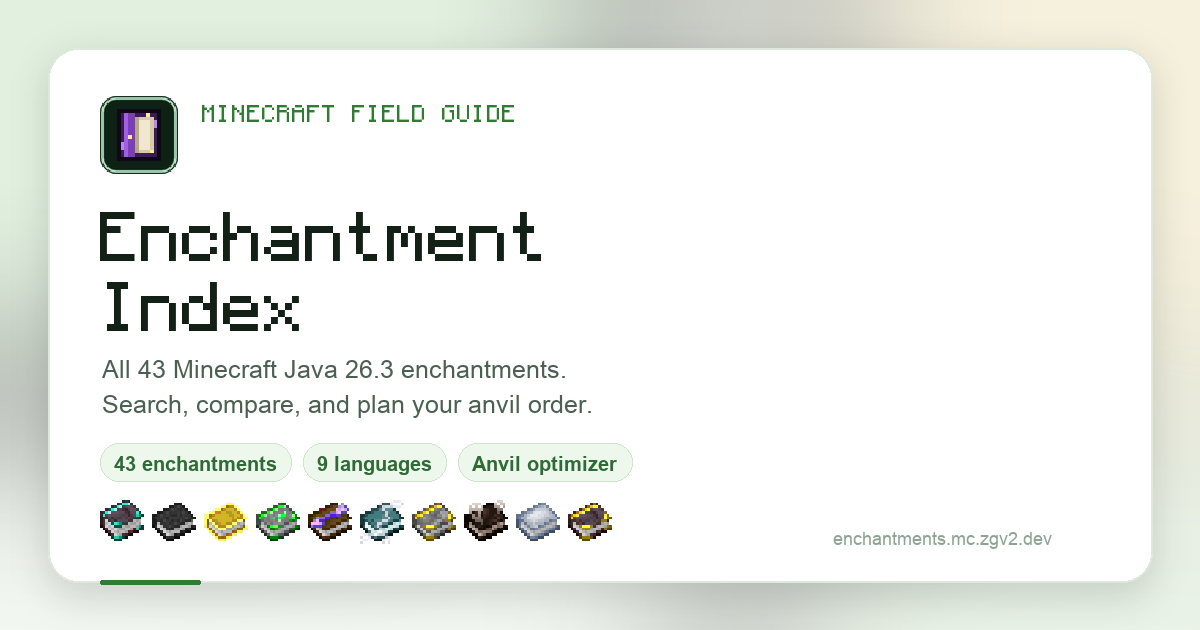
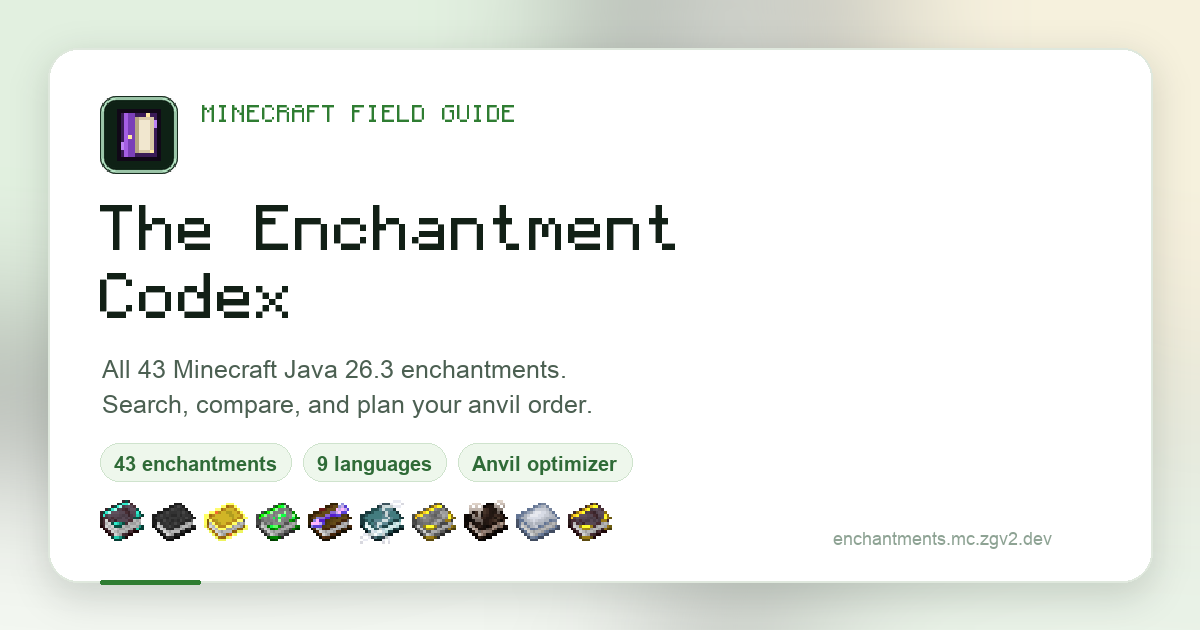
Rebrand the index as The Enchantment Codex

Changed region(s): [[0.0617, 0.3016, 0.555, 0.5429]]

diff --git a/index.html b/index.html
@@ -11,28 +11,28 @@
     }
   } catch (_) {}
 </script>
-<title>Minecraft Enchantment Index — 43 Java 26.3 Enchantments</title>
+<title>The Enchantment Codex — Minecraft Java 26.3 Enchantments</title>
 <meta name="description" content="Search all 43 Minecraft Java 26.3 enchantments. Compare max levels, compatible items, conflicts, sources, official translations, and plan anvil order.">
 <meta name="author" content="ZGV2">
-<meta name="application-name" content="Minecraft Enchantment Index">
+<meta name="application-name" content="The Enchantment Codex">
 <meta name="color-scheme" content="light dark">
 <meta name="robots" content="index,follow,max-image-preview:large">
 <link rel="canonical" href="https://enchantments.mc.zgv2.dev/">
 <link rel="preload" href="assets/Monocraft.ttf" as="font" type="font/ttf" crossorigin>
 <link rel="manifest" href="site.webmanifest">
 <link rel="sitemap" type="application/xml" title="Sitemap" href="sitemap.xml">
-<meta name="apple-mobile-web-app-title" content="Enchantment Index">
+<meta name="apple-mobile-web-app-title" content="Enchantment Codex">
 <meta property="og:type" content="website">
-<meta property="og:site_name" content="Enchantment Index">
+<meta property="og:site_name" content="The Enchantment Codex">
 <meta property="og:url" content="https://enchantments.mc.zgv2.dev/">
-<meta property="og:title" content="Minecraft Enchantment Index">
+<meta property="og:title" content="The Enchantment Codex">
 <meta property="og:description" content="Search all 43 Java 26.3 enchantments, compare levels and conflicts, and plan the cheapest anvil order.">
-<meta property="og:image" content="https://enchantments.mc.zgv2.dev/assets/og-image.png?v=2">
-<meta property="og:image:secure_url" content="https://enchantments.mc.zgv2.dev/assets/og-image.png?v=2">
+<meta property="og:image" content="https://enchantments.mc.zgv2.dev/assets/og-image.png?v=3">
+<meta property="og:image:secure_url" content="https://enchantments.mc.zgv2.dev/assets/og-image.png?v=3">
 <meta property="og:image:type" content="image/png">
 <meta property="og:image:width" content="1200">
 <meta property="og:image:height" content="630">
-<meta property="og:image:alt" content="Enchantment Index — 43 Minecraft Java 26.3 enchantments">
+<meta property="og:image:alt" content="The Enchantment Codex — 43 Minecraft Java 26.3 enchantments">
 <meta property="og:locale" content="en_US">
 <meta property="og:locale:alternate" content="uk_UA">
 <meta property="og:locale:alternate" content="zh_CN">
@@ -43,10 +43,10 @@
 <meta property="og:locale:alternate" content="es_ES">
 <meta property="og:locale:alternate" content="ja_JP">
 <meta name="twitter:card" content="summary_large_image">
-<meta name="twitter:title" content="Minecraft Enchantment Index">
+<meta name="twitter:title" content="The Enchantment Codex">
 <meta name="twitter:description" content="Search all 43 Java 26.3 enchantments, compare levels and conflicts, and plan the cheapest anvil order.">
-<meta name="twitter:image" content="https://enchantments.mc.zgv2.dev/assets/og-image.png?v=2">
-<meta name="twitter:image:alt" content="Enchantment Index — 43 Minecraft Java 26.3 enchantments">
+<meta name="twitter:image" content="https://enchantments.mc.zgv2.dev/assets/og-image.png?v=3">
+<meta name="twitter:image:alt" content="The Enchantment Codex — 43 Minecraft Java 26.3 enchantments">
 <link rel="icon" type="image/svg+xml" href="assets/favicon.svg">
 <link rel="icon" type="image/png" sizes="32x32" href="assets/favicon-32.png">
 <link rel="icon" type="image/png" sizes="64x64" href="assets/favicon.png">
@@ -3877,7 +3877,7 @@
   }
 </style>
 <link rel="stylesheet" href="assets/order.css">
-<script type="application/ld+json">{"@context":"https://schema.org","@graph":[{"@type":"WebSite","@id":"https://enchantments.mc.zgv2.dev/#website","url":"https://enchantments.mc.zgv2.dev/","name":"Minecraft Enchantment Index","description":"Search all 43 Minecraft Java 26.3 enchantments. Compare max levels, compatible items, conflicts, sources, official translations, and plan anvil order.","inLanguage":"en","publisher":{"@type":"Organization","name":"ZGV2"},"mainEntity":{"@id":"https://enchantments.mc.zgv2.dev/#app"}},{"@type":"WebApplication","@id":"https://enchantments.mc.zgv2.dev/#app","name":"Minecraft Enchantment Index","url":"https://enchantments.mc.zgv2.dev/","description":"Search all 43 Minecraft Java 26.3 enchantments. Compare max levels, compatible items, conflicts, sources, official translations, and plan anvil order.","applicationCategory":"GameApplication","operatingSystem":"Any","browserRequirements":"Requires JavaScript","isAccessibleForFree":true,"inLanguage":["en","uk","zh-Hans","zh-Hant","de","fr","it","es","ja"],"featureList":["Search 43 Minecraft Java 26.3 enchantments","Filter by category or maximum level","Compare compatible items and conflicts","View official translations in nine languages","Plan the cheapest anvil order"],"offers":{"@type":"Offer","price":"0","priceCurrency":"USD"},"creator":{"@type":"Organization","name":"ZGV2"},"isPartOf":{"@id":"https://enchantments.mc.zgv2.dev/#website"}},{"@type":"ItemList","@id":"https://enchantments.mc.zgv2.dev/#enchantments","name":"Minecraft Java 26.3 enchantments","numberOfItems":43,"itemListOrder":"https://schema.org/ItemListOrderAscending","itemListElement":[{"@type":"ListItem","position":1,"name":"Aqua Affinity","description":"Break blocks at full speed underwater."},{"@type":"ListItem","position":2,"name":"Bane of Arthropods","description":"Extra damage against spiders and their kin."},{"@type":"ListItem","position":3,"name":"Blast Protection","description":"Soften explosions and their knockback."},{"@type":"ListItem","position":4,"name":"Breach","description":"Mace hits punch through armor."},{"@type":"ListItem","position":5,"name":"Channeling","description":"Call lightning down during a storm."},{"@type":"ListItem","position":6,"name":"Curse of Binding","description":"Armor that cannot be taken off."},{"@type":"ListItem","position":7,"name":"Curse of Vanishing","description":"Gone forever when you die."},{"@type":"ListItem","position":8,"name":"Density","description":"Heavier, harder-hitting mace smashes."},{"@type":"ListItem","position":9,"name":"Depth Strider","description":"Move faster through water."},{"@type":"ListItem","position":10,"name":"Efficiency","description":"Mine faster with every level."},{"@type":"ListItem","position":11,"name":"Feather Falling","description":"Soften the landing."},{"@type":"ListItem","position":12,"name":"Fire Aspect","description":"Set your targets ablaze."},{"@type":"ListItem","position":13,"name":"Fire Protection","description":"Resist fire and shake off burns faster."},{"@type":"ListItem","position":14,"name":"Flame","description":"Arrows that set things on fire."},{"@type":"ListItem","position":15,"name":"Fortune","description":"More drops from ores and crops."},{"@type":"ListItem","position":16,"name":"Frost Walker","description":"Frozen water beneath your boots."},{"@type":"ListItem","position":17,"name":"Impaling","description":"Extra damage to aquatic mobs."},{"@type":"ListItem","position":18,"name":"Infinity","description":"Never run out of arrows."},{"@type":"ListItem","position":19,"name":"Knockback","description":"Send enemies flying."},{"@type":"ListItem","position":20,"name":"Looting","description":"More loot from mobs."},{"@type":"ListItem","position":21,"name":"Loyalty","description":"Your trident comes back."},{"@type":"ListItem","position":22,"name":"Luck of the Sea","description":"Better fishing treasure."},{"@type":"ListItem","position":23,"name":"Lunge","description":"Spear jabs launch you forward."},{"@type":"ListItem","position":24,"name":"Lure","description":"Fish bite faster."},{"@type":"ListItem","position":25,"name":"Mending","description":"Gear repairs itself with experience."},{"@type":"ListItem","position":26,"name":"Multishot","description":"Fire three arrows at once."},{"@type":"ListItem","position":27,"name":"Piercing","description":"Arrows pass through targets."},{"@type":"ListItem","position":28,"name":"Power","description":"Harder-hitting arrows."},{"@type":"ListItem","position":29,"name":"Projectile Protection","description":"Shrug off arrows and other projectiles."},{"@type":"ListItem","position":30,"name":"Protection","description":"Reduces most kinds of damage."},{"@type":"ListItem","position":31,"name":"Punch","description":"Arrows with extra knockback."},{"@type":"ListItem","position":32,"name":"Quick Charge","description":"Reload your crossbow faster."},{"@type":"ListItem","position":33,"name":"Respiration","description":"Breathe longer underwater."},{"@type":"ListItem","position":34,"name":"Riptide","description":"Launch yourself with your trident."},{"@type":"ListItem","position":35,"name":"Sharpness","description":"More melee damage."},{"@type":"ListItem","position":36,"name":"Silk Touch","description":"Blocks drop themselves."},{"@type":"ListItem","position":37,"name":"Smite","description":"Extra damage to the undead."},{"@type":"ListItem","position":38,"name":"Soul Speed","description":"Sprint across soul sand and soul soil."},{"@type":"ListItem","position":39,"name":"Sweeping Edge","description":"Stronger sword sweep attacks."},{"@type":"ListItem","position":40,"name":"Swift Sneak","description":"Sneak around faster."},{"@type":"ListItem","position":41,"name":"Thorns","description":"Punish attackers with damage."},{"@type":"ListItem","position":42,"name":"Unbreaking","description":"Gear lasts longer."},{"@type":"ListItem","position":43,"name":"Wind Burst","description":"Mace hits launch you upward."}]}]}</script>
+<script type="application/ld+json">{"@context":"https://schema.org","@graph":[{"@type":"WebSite","@id":"https://enchantments.mc.zgv2.dev/#website","url":"https://enchantments.mc.zgv2.dev/","name":"The Enchantment Codex","alternateName":"Minecraft Enchantment Index","description":"Search all 43 Minecraft Java 26.3 enchantments. Compare max levels, compatible items, conflicts, sources, official translations, and plan anvil order.","inLanguage":"en","publisher":{"@type":"Organization","name":"ZGV2"},"mainEntity":{"@id":"https://enchantments.mc.zgv2.dev/#app"}},{"@type":"WebApplication","@id":"https://enchantments.mc.zgv2.dev/#app","name":"The Enchantment Codex","alternateName":"Minecraft Enchantment Index","url":"https://enchantments.mc.zgv2.dev/","description":"Search all 43 Minecraft Java 26.3 enchantments. Compare max levels, compatible items, conflicts, sources, official translations, and plan anvil order.","applicationCategory":"GameApplication","operatingSystem":"Any","browserRequirements":"Requires JavaScript","isAccessibleForFree":true,"inLanguage":["en","uk","zh-Hans","zh-Hant","de","fr","it","es","ja"],"featureList":["Search 43 Minecraft Java 26.3 enchantments","Filter by category or maximum level","Compare compatible items and conflicts","View official translations in nine languages","Plan the cheapest anvil order"],"offers":{"@type":"Offer","price":"0","priceCurrency":"USD"},"creator":{"@type":"Organization","name":"ZGV2"},"isPartOf":{"@id":"https://enchantments.mc.zgv2.dev/#website"}},{"@type":"ItemList","@id":"https://enchantments.mc.zgv2.dev/#enchantments","name":"Minecraft Java 26.3 enchantments","numberOfItems":43,"itemListOrder":"https://schema.org/ItemListOrderAscending","itemListElement":[{"@type":"ListItem","position":1,"name":"Aqua Affinity","description":"Break blocks at full speed underwater."},{"@type":"ListItem","position":2,"name":"Bane of Arthropods","description":"Extra damage against spiders and their kin."},{"@type":"ListItem","position":3,"name":"Blast Protection","description":"Soften explosions and their knockback."},{"@type":"ListItem","position":4,"name":"Breach","description":"Mace hits punch through armor."},{"@type":"ListItem","position":5,"name":"Channeling","description":"Call lightning down during a storm."},{"@type":"ListItem","position":6,"name":"Curse of Binding","description":"Armor that cannot be taken off."},{"@type":"ListItem","position":7,"name":"Curse of Vanishing","description":"Gone forever when you die."},{"@type":"ListItem","position":8,"name":"Density","description":"Heavier, harder-hitting mace smashes."},{"@type":"ListItem","position":9,"name":"Depth Strider","description":"Move faster through water."},{"@type":"ListItem","position":10,"name":"Efficiency","description":"Mine faster with every level."},{"@type":"ListItem","position":11,"name":"Feather Falling","description":"Soften the landing."},{"@type":"ListItem","position":12,"name":"Fire Aspect","description":"Set your targets ablaze."},{"@type":"ListItem","position":13,"name":"Fire Protection","description":"Resist fire and shake off burns faster."},{"@type":"ListItem","position":14,"name":"Flame","description":"Arrows that set things on fire."},{"@type":"ListItem","position":15,"name":"Fortune","description":"More drops from ores and crops."},{"@type":"ListItem","position":16,"name":"Frost Walker","description":"Frozen water beneath your boots."},{"@type":"ListItem","position":17,"name":"Impaling","description":"Extra damage to aquatic mobs."},{"@type":"ListItem","position":18,"name":"Infinity","description":"Never run out of arrows."},{"@type":"ListItem","position":19,"name":"Knockback","description":"Send enemies flying."},{"@type":"ListItem","position":20,"name":"Looting","description":"More loot from mobs."},{"@type":"ListItem","position":21,"name":"Loyalty","description":"Your trident comes back."},{"@type":"ListItem","position":22,"name":"Luck of the Sea","description":"Better fishing treasure."},{"@type":"ListItem","position":23,"name":"Lunge","description":"Spear jabs launch you forward."},{"@type":"ListItem","position":24,"name":"Lure","description":"Fish bite faster."},{"@type":"ListItem","position":25,"name":"Mending","description":"Gear repairs itself with experience."},{"@type":"ListItem","position":26,"name":"Multishot","description":"Fire three arrows at once."},{"@type":"ListItem","position":27,"name":"Piercing","description":"Arrows pass through targets."},{"@type":"ListItem","position":28,"name":"Power","description":"Harder-hitting arrows."},{"@type":"ListItem","position":29,"name":"Projectile Protection","description":"Shrug off arrows and other projectiles."},{"@type":"ListItem","position":30,"name":"Protection","description":"Reduces most kinds of damage."},{"@type":"ListItem","position":31,"name":"Punch","description":"Arrows with extra knockback."},{"@type":"ListItem","position":32,"name":"Quick Charge","description":"Reload your crossbow faster."},{"@type":"ListItem","position":33,"name":"Respiration","description":"Breathe longer underwater."},{"@type":"ListItem","position":34,"name":"Riptide","description":"Launch yourself with your trident."},{"@type":"ListItem","position":35,"name":"Sharpness","description":"More melee damage."},{"@type":"ListItem","position":36,"name":"Silk Touch","description":"Blocks drop themselves."},{"@type":"ListItem","position":37,"name":"Smite","description":"Extra damage to the undead."},{"@type":"ListItem","position":38,"name":"Soul Speed","description":"Sprint across soul sand and soul soil."},{"@type":"ListItem","position":39,"name":"Sweeping Edge","description":"Stronger sword sweep attacks."},{"@type":"ListItem","position":40,"name":"Swift Sneak","description":"Sneak around faster."},{"@type":"ListItem","position":41,"name":"Thorns","description":"Punish attackers with damage."},{"@type":"ListItem","position":42,"name":"Unbreaking","description":"Gear lasts longer."},{"@type":"ListItem","position":43,"name":"Wind Burst","description":"Mace hits launch you upward."}]}]}</script>
 </head>
 <body>
 
@@ -3898,7 +3898,7 @@
   </style>
   <section class="seo-fallback" aria-labelledby="seo-fallback-title">
     <p class="seo-kicker">Minecraft field guide</p>
-    <h2 class="seo-fallback-title" id="seo-fallback-title">Minecraft Enchantment Index</h2>
+    <h2 class="seo-fallback-title" id="seo-fallback-title">The Enchantment Codex</h2>
     <p>All 43 Minecraft Java 26.3 enchantments, with maximum levels, categories, compatible items, and summaries. Enable JavaScript for search, filters, official translations, and the anvil order optimizer.</p>
     <ul>
       <li><strong>Aqua Affinity</strong> <span>Max level I · Armor</span><p>Break blocks at full speed underwater.</p></li>
@@ -4038,7 +4038,7 @@
       </div>
       <div>
         <p class="eyebrow">Minecraft field guide</p>
-        <h1>Enchantment Index</h1>
+        <h1>The Enchantment Codex</h1>
       </div>
     </div>
     <div class="header-controls">
@@ -4351,10 +4351,10 @@
 
   const UI = {
     "en": {
-      "pageTitle": "Minecraft Enchantment Index — 43 Java 26.3 Enchantments",
+      "pageTitle": "The Enchantment Codex — Minecraft Java 26.3 Enchantments",
       "metaDescription": "Search all 43 Minecraft Java 26.3 enchantments. Compare max levels, compatible items, conflicts, sources, official translations, and plan anvil order.",
       "eyebrow": "Minecraft field guide",
-      "title": "Enchantment Index",
+      "title": "The Enchantment Codex",
       "searchLabel": "Search",
       "searchPlaceholder": "Search by enchantment name…",
       "searchAria": "Search enchantments",
@@ -4440,10 +4440,10 @@
       }
     },
     "de": {
-      "pageTitle": "Verzauberungsindex — Ein Minecraft-Feldhandbuch",
+      "pageTitle": "Verzauberungskodex — Minecraft Java 26.3",
       "metaDescription": "Eine durchsuchbare Liste der Minecraft-Verzauberungen mit maximalen Stufen, passenden Gegenständen und Konflikten.",
       "eyebrow": "Minecraft-Feldhandbuch",
-      "title": "Verzauberungsindex",
+      "title": "Verzauberungskodex",
       "searchLabel": "Suchen",
       "searchPlaceholder": "Nach Verzauberungsnamen suchen…",
       "searchAria": "Verzauberungen durchsuchen",
@@ -4529,10 +4529,10 @@
       }
     },
     "fr": {
-      "pageTitle": "Index des enchantements — Un guide de terrain Minecraft",
+      "pageTitle": "Codex des enchantements — Minecraft Java 26.3",
       "metaDescription": "Une liste consultable des enchantements de Minecraft avec niveaux maximaux, objets compatibles et conflits.",
       "eyebrow": "Guide de terrain Minecraft",
-      "title": "Index des enchantements",
+      "title": "Codex des enchantements",
       "searchLabel": "Rechercher",
       "searchPlaceholder": "Rechercher par nom d'enchantement…",
       "searchAria": "Rechercher des enchantements",
@@ -4618,10 +4618,10 @@
       }
     },
     "it": {
-      "pageTitle": "Indice degli incantesimi — Una guida sul campo di Minecraft",
+      "pageTitle": "Codice degli incantesimi — Minecraft Java 26.3",
       "metaDescription": "Un elenco ricercabile degli incantesimi di Minecraft con livelli massimi, oggetti compatibili e conflitti.",
       "eyebrow": "Guida sul campo di Minecraft",
-      "title": "Indice degli incantesimi",
+      "title": "Codice degli incantesimi",
       "searchLabel": "Cerca",
       "searchPlaceholder": "Cerca per nome dell'incantesimo…",
       "searchAria": "Cerca incantesimi",
@@ -4707,10 +4707,10 @@
       }
     },
     "es": {
-      "pageTitle": "Índice de encantamientos — Una guía de campo de Minecraft",
+      "pageTitle": "Códice de encantamientos — Minecraft Java 26.3",
       "metaDescription": "Una lista consultable de encantamientos de Minecraft con niveles máximos, objetos compatibles y conflictos.",
       "eyebrow": "Guía de campo de Minecraft",
-      "title": "Índice de encantamientos",
+      "title": "Códice de encantamientos",
       "searchLabel": "Buscar",
       "searchPlaceholder": "Buscar por nombre de encantamiento…",
       "searchAria": "Buscar encantamientos",
@@ -4796,10 +4796,10 @@
       }
     },
     "uk": {
-      "pageTitle": "Індекс зачарувань — Путівник Minecraft",
+      "pageTitle": "Кодекс зачарувань — Minecraft Java 26.3",
       "metaDescription": "Пошуковий список зачарувань Minecraft з максимальними рівнями, сумісними предметами та конфліктами.",
       "eyebrow": "Путівник Minecraft",
-      "title": "Індекс зачарувань",
+      "title": "Кодекс зачарувань",
       "searchLabel": "Пошук",
       "searchPlaceholder": "Пошук за назвою зачарування…",
       "searchAria": "Пошук зачарувань",
@@ -4885,10 +4885,10 @@
       }
     },
     "zhCn": {
-      "pageTitle": "附魔索引 — Minecraft 实地指南",
+      "pageTitle": "附魔图鉴 — Minecraft Java 26.3",
       "metaDescription": "可搜索的 Minecraft 附魔列表，包含最高等级、适用物品和冲突。",
       "eyebrow": "Minecraft 实地指南",
-      "title": "附魔索引",
+      "title": "附魔图鉴",
       "searchLabel": "搜索",
       "searchPlaceholder": "按附魔名称搜索…",
       "searchAria": "搜索附魔",
@@ -4974,10 +4974,10 @@
       }
     },
     "zhTw": {
-      "pageTitle": "附魔索引 — Minecraft 實地指南",
+      "pageTitle": "附魔圖鑑 — Minecraft Java 26.3",
       "metaDescription": "可搜尋的 Minecraft 附魔列表，包含最高等級、適用物品和衝突。",
       "eyebrow": "Minecraft 實地指南",
-      "title": "附魔索引",
+      "title": "附魔圖鑑",
       "searchLabel": "搜尋",
       "searchPlaceholder": "按附魔名稱搜尋…",
       "searchAria": "搜尋附魔",
@@ -5836,10 +5836,10 @@
   };
 
   UI.ja = {
-    "pageTitle": "エンチャント索引 — Minecraft フィールドガイド",
+    "pageTitle": "エンチャント図鑑 — Minecraft Java 26.3",
     "metaDescription": "Minecraftのエンチャントを検索できる一覧。最大レベル、対応アイテム、競合を掲載。",
     "eyebrow": "Minecraft フィールドガイド",
-    "title": "エンチャント索引",
+    "title": "エンチャント図鑑",
     "searchLabel": "検索",
     "searchPlaceholder": "エンチャント名で検索…",
     "searchAria": "エンチャントを検索",

diff --git a/README.md b/README.md
@@ -1,6 +1,6 @@
-# Enchantment Index
+# The Enchantment Codex
 
-A single-page, searchable Minecraft enchantment reference with a light green field-lab interface, a forest-green night mode, and blocky in-game-inspired details.
+A single-page, searchable Minecraft enchantment codex with a light green field-lab interface, a forest-green night mode, and blocky in-game-inspired details.
 
 ## Run it
 
